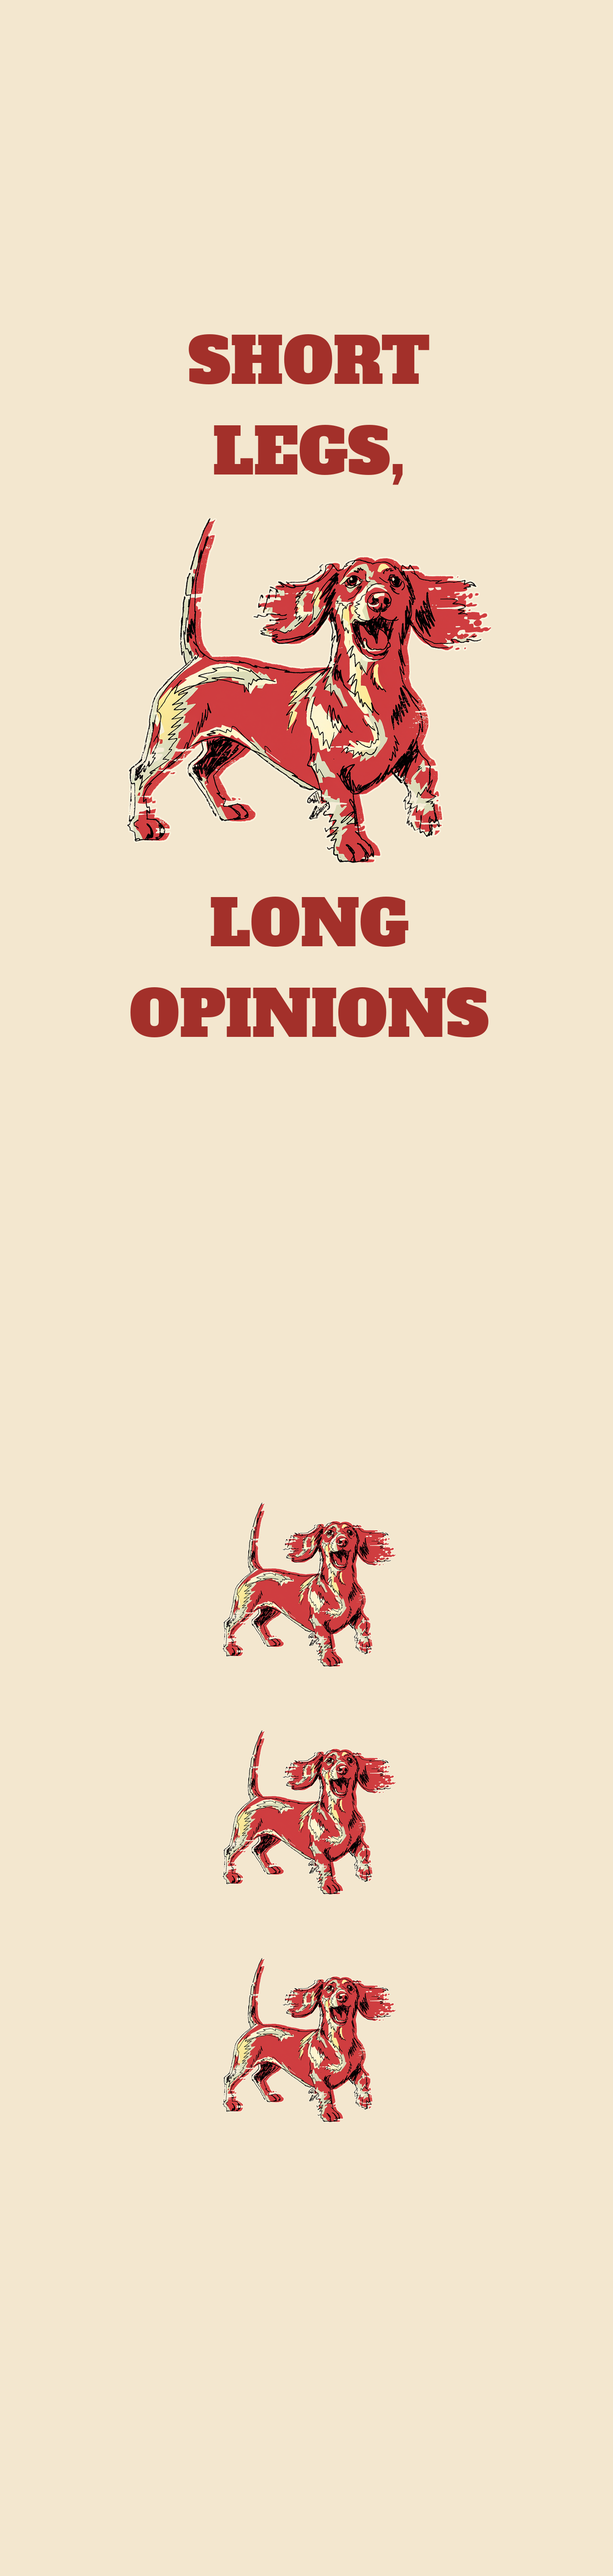
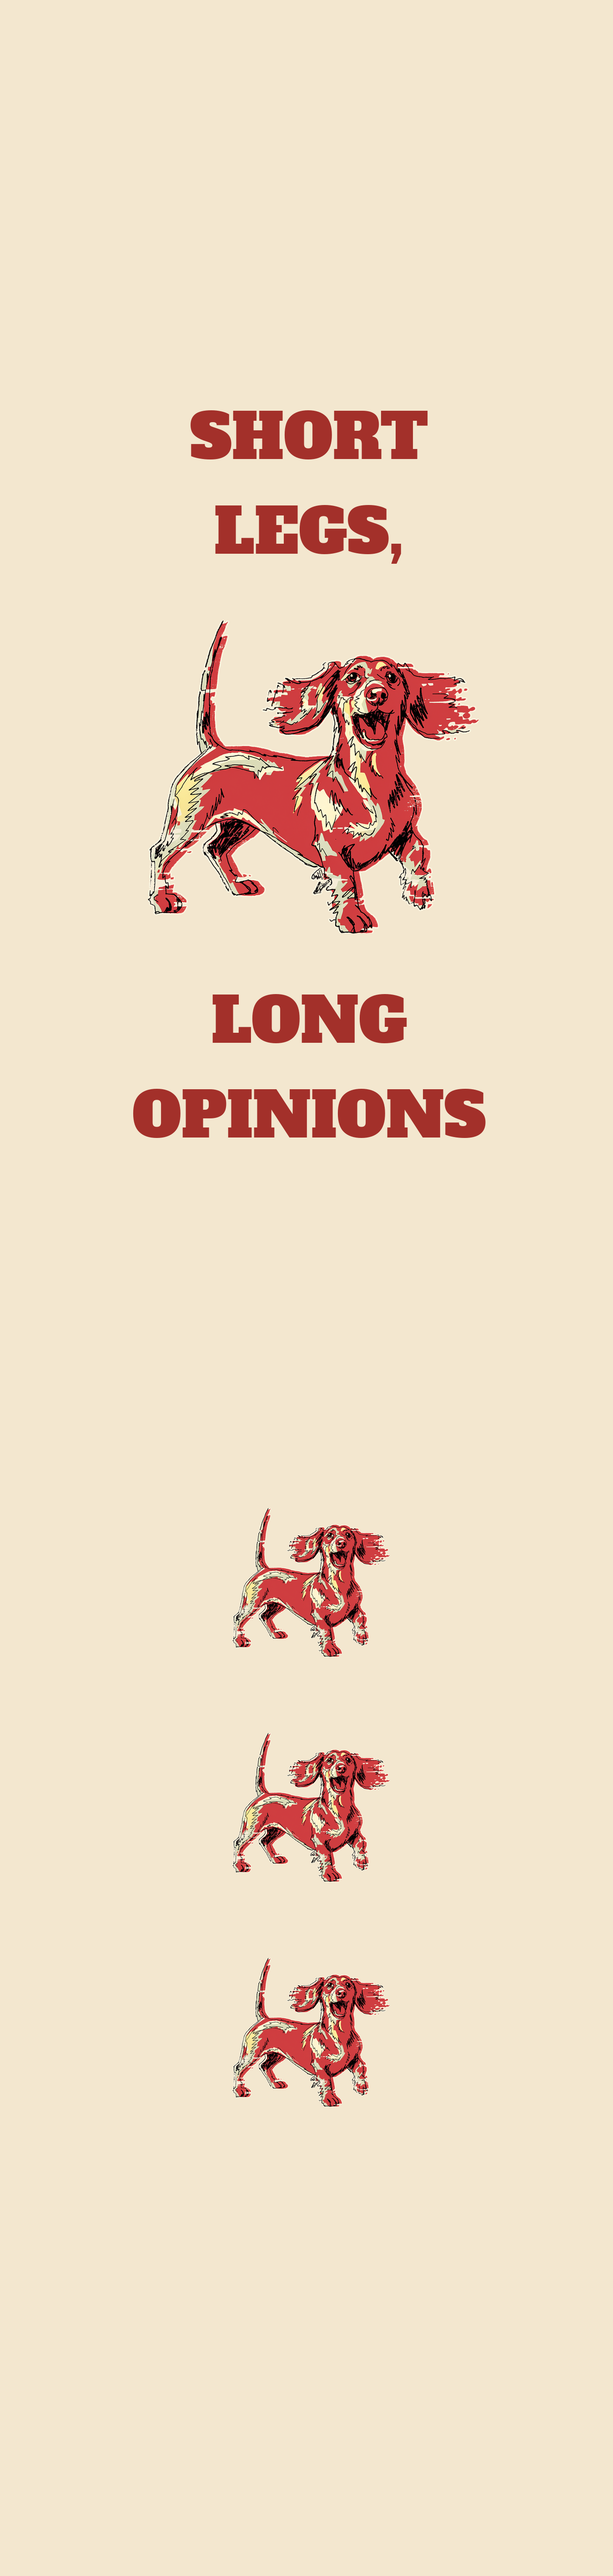
[B] redo 662 socks: OPINIONS sets the width

Changed region(s): [[0.2181, 0.1244, 0.8101, 0.4667], [0.3739, 0.5911, 0.6543, 0.84]]

diff --git a/docs/pipeline/662-dachshund-socks-short-legs-long-opinions.md b/docs/pipeline/662-dachshund-socks-short-legs-long-opinions.md
@@ -1,4 +1,4 @@
-status: REDO
+status: REVIEW
 lane: B
 type: addon
 id: 662
@@ -37,3 +37,4 @@ kd: 18
 - 2026-10-18 23:33 UTC [B] REDO fixes done: panel rebuilt with every line at full leg width (>=90% of 820 px), lockup+art fill cuff to ~1 in above heel; front placements use a 180-degree-rotated file (v2: 1089204665 back, 1089204672 rotated front), all 3 variants relinked (R7.7); mockup checked on both views, line reads upright on both socks. New Printful mockup replaces the Shopify image, cover 'front and back view', sheet docs/review/662.jpg. Story line 'lockup and main art on the leg' is true now. fal 0.
 - 2026-10-19 00:25 UTC director: APPROVED on docs/review/662.jpg (line upright on both mockup views, every word reads at phone size, lockup + art fill the leg; title, tags, $18.99 with no compare-at and FAQ checked in Shopify). Stays DRAFT at status REVIEW until the quality reset says RESUME; the director publishes it then without a second review. One copy fix before publish (builder or director, R8.3 no production words): in The Story, "with the lockup and the main art on the leg" -> "with the words and the main art on the leg".
 - 2026-10-20 18:45 UTC director: REDO (still DRAFT). R3.7.8 (punchline never the smallest line, 2026-10-20, newer than the 10-19 approval): on the leg OPINIONS is the smallest word, about half the width of LONG, so the punch reads as a caption on the mockup. Re-set LONG / OPINIONS. so OPINIONS is at least as wide as SHORT and LEGS, (it is the longest word: let it set the leg width, the others no bigger). Same font and red. New mockup + sheet.
+- 2026-10-21 05:48 UTC [B]: REDO done (R3.7.8, director 2026-10-20 18:45): all four words now set at one size (scripts/sock-print.py uniform) set by OPINIONS, the longest word, which now runs the full 800 px leg width; SHORT, LEGS, and LONG are no bigger (they were 240 px high caps, OPINIONS about half the width of LONG). Dog cut from the existing panel 1089204665 at its native size (the source a662.png is gone), gap 100. New back file 1090940818 + rotated front 1090940840 relinked on S/M/L (3/3 R7.7, sync 482876557), new #882 mockup reads upright on both views; Shopify media replaced in place, Story word 'lockup' -> 'words' (R8.3, director's 10-19 note), cover webp + sheet remade. fal $0.

diff --git a/docs/intake-log.md b/docs/intake-log.md
@@ -1,4 +1,5 @@
 RUNNING helper since 2026-10-21 05:43 UTC
+2026-10-21 05:48 UTC — [B] Builder run (REDO): #662 Dachshund Short Legs, Long Opinions Socks redo: OPINIONS sets the leg width, all words one size, files 1090940818/1090940840, REVIEW. fal $0.
 2026-10-21 05:47 UTC — [B] Builder run (REDO): #728 Bookish Do Not Sell My Books at My Funeral Socks redo: lockup runs cuff to heel with equal-size words, files 1090939726/1090939727, REVIEW (product ACTIVE). fal $0.
 2026-10-21 05:45 UTC — [B] Builder run (REDO): #672 Fishing You Catching Em? No. Keep Walking. Ornament redo: punch 656 px vs headline 621 px (106%), new file 1090938761, REVIEW. fal $0.
 2026-10-21 05:44 UTC — [H] Helper run: Telegram inbox empty (getUpdates returned 0 updates; no pause, resume or TikTok links; nothing to consume). Audit 685 live products: 0 errors, 113 warnings left alone; committed docs/cohesion-audit.md and .json. Price errors 0; announcement bar already on the holiday line. Category check: 0 products without a Shopify category (query empty, no mutation). Site check: womens-fishing-out-fished-him-again-zip-hoodie, mens-electrician-its-probably-the-breaker-hoodie and mens-plumber-not-looking-at-your-sink-hoodie all 200; homepage 200. Stuck work: none (no pipeline item BUILDING; lane C lock 05:25, director 05:13, lane B 05:05, all active). Daily summary not due (first run after 12:00 UTC). Lock released.
